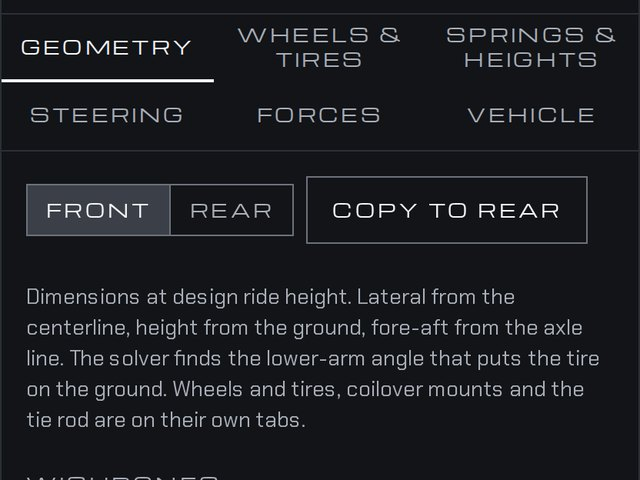
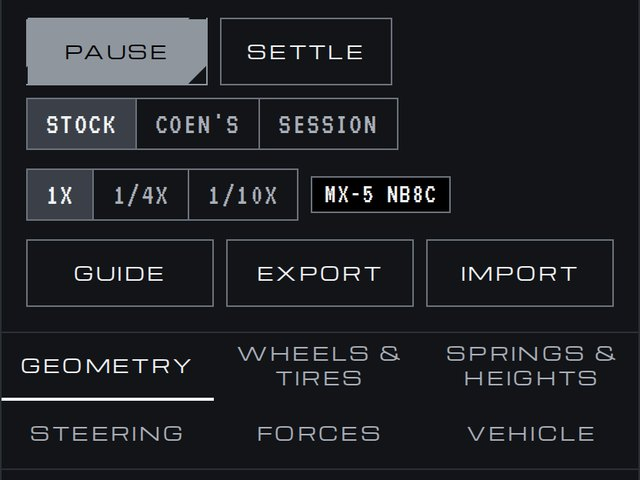
Guide opens on every load; Export and Import setup files; Drive
- The quick start guide opens every time the page loads and from the
  Guide button (was a ? button, shown once). Step 1 names the starter
  setups, the session setup and Export / Import.
- Export saves the setup on screen as a .json file. Import loads such
  a file as the session setup and refuses files that cannot be built.
- The Assess turn-in group is now called Drive.

Claude-Session: https://claude.ai/code/session_01XaYnxNh97FpaRMzgoeqeMp

diff --git a/index.html b/index.html
@@ -4,7 +4,7 @@
 <meta charset="utf-8">
 <meta name="viewport" content="width=device-width, initial-scale=1, viewport-fit=cover">
 <title>Double Wishbone Simulator</title>
-<link rel="stylesheet" href="style.css?v=839bff8e">
+<link rel="stylesheet" href="style.css?v=95f137e8">
 </head>
 <body>
 <div class="app">
@@ -27,7 +27,12 @@
         <button aria-pressed="true" data-v="1">1x</button><button aria-pressed="false" data-v="0.25">1/4x</button><button aria-pressed="false" data-v="0.1">1/10x</button>
       </div>
       <span class="tag">MX-5 NB8C</span>
-      <button class="btn" id="introBtn" title="Quick start" aria-label="Quick start">?</button>
+    </div>
+    <div class="simbar files">
+      <button class="btn" id="introBtn" title="Open the quick start guide">Guide</button>
+      <button class="btn" id="expBtn" title="Save the setup on screen as a file">Export</button>
+      <button class="btn" id="impBtn" title="Load a setup file as the session setup">Import</button>
+      <input type="file" id="impFile" accept=".json,application/json" hidden>
     </div>
   </div>
   <div class="tabs" role="tablist">
@@ -90,7 +95,7 @@
   <div class="pane" id="p-load" role="tabpanel" hidden>
     <fieldset><legend>Body acceleration / steady</legend>
       <div class="sl"><label for="ay">Lateral, + = right turn</label><output id="ayO"></output><input type="range" id="ay" min="-1.5" max="1.5" step="0.01" value="0"></div>
-      <p class="hint" id="ayNote" hidden>Assess turn-in is on (Steering tab), so lateral g comes from the tires.</p>
+      <p class="hint" id="ayNote" hidden>Drive is on (Steering tab), so lateral g comes from the tires.</p>
       <div class="sl"><label for="ax">Longitudinal, + = accelerating</label><output id="axO"></output><input type="range" id="ax" min="-1.5" max="1.2" step="0.01" value="0"></div>
     </fieldset>
     <fieldset><legend>Point load / downward</legend>
@@ -111,7 +116,7 @@
 
   <div class="pane" id="p-veh" role="tabpanel" hidden>
     <div id="vehFields" class="groups"></div>
-    <p class="hint">Sprung mass is everything the springs carry. Unsprung mass is wheel, tire, upright, brake and about half the arms and coilover. Roll inertia is about the CG. The model adds the offset to the roll axis. CG height follows the ride height. Yaw inertia is only used while Assess turn-in is on.</p>
+    <p class="hint">Sprung mass is everything the springs carry. Unsprung mass is wheel, tire, upright, brake and about half the arms and coilover. Roll inertia is about the CG. The model adds the offset to the roll axis. CG height follows the ride height. Yaw inertia is only used while Drive is on.</p>
     <p class="hint">The setup saves in this browser. Stock and Coen's reload that car. Any edit you make is kept as the Session setup; the Session button brings it back.</p>
   </div>
   <div class="status" id="status" role="status">Solved.</div>
@@ -247,7 +252,7 @@
         <li>Dynamics: body heave, pitch and roll (small angles) plus vertical motion of each wheel, and sideways slide and yaw while the car is driven. The body rolls about the roll axis, a tilted body carries its CG off-center over the wheels, and the CG height follows the ride height.</li>
         <li>Tires are thin discs with a linear vertical spring and light damping. They can leave the ground. Side force follows a Magic Formula curve from slip angle, load and camber: peak grip falls as load rises, cornering stiffness flattens with load, and camber leaning into the turn adds a little grip up to an optimum. The grip numbers are typical values, not test data, so trust the direction of a change more than the size.</li>
         <li>Grip in use: the car is settled at each lateral g and each axle's side force is compared with the most its two tires can make at their loads, cambers and toes. The axle that reaches 100 % first sets the limit. The understeer gradient is the change in front minus rear slip angle between 0.2 and 0.4 g.</li>
-        <li>Assess turn-in (Steering tab): at the set steady speed the tires make the side force from their slip angles, the car slides sideways and yaws, and lateral g comes out of that. Speed is held constant, the road is flat, and there is no drive or brake force at the tires. Past the limit the car plows or spins; that part is the least accurate. Cornering loads do not jack the body. While it is on, the floor grid in the 3D view moves under the car: it streams back at the car's speed, turns as the car yaws, and drifts sideways when the car slides. Finer grid lines fade out at speed so the motion stays readable.</li>
+        <li>Drive (Steering tab): at the set steady speed the tires make the side force from their slip angles, the car slides sideways and yaws, and lateral g comes out of that. Speed is held constant, the road is flat, and there is no drive or brake force at the tires. Past the limit the car plows or spins; that part is the least accurate. Cornering loads do not jack the body. While it is on, the floor grid in the 3D view moves under the car: it streams back at the car's speed, turns as the car yaws, and drifts sideways when the car slides. Finer grid lines fade out at speed so the motion stays readable.</li>
         <li>No anti-dive or anti-squat: all longitudinal load transfer goes through the springs.</li>
         <li>Lateral load transfer through the links uses each axle's roll center height for equal travel on both sides and zero steer. The rear view shows the true roll center for reference.</li>
         <li>Steering lifts or lowers each front tire relative to its arm (caster and kingpin inclination), which shifts load diagonally. Springs, bump stops and anti-roll bars act on arm travel.</li>
@@ -266,12 +271,12 @@
     <button class="btn introX" id="introX" aria-label="Close">✕</button>
     <h2 id="introT">Quick start</h2>
     <ol class="introSteps">
-      <li><div><b><i>1</i>Set up the car</b><span>Geometry · Wheels &amp; tires · Springs &amp; heights · Vehicle</span></div>
-        <img src="intro-1.jpg?v=87081ffa" width="640" height="480" alt="The tabs on the left, with the Geometry fields open"></li>
+      <li><div><b><i>1</i>Set up the car</b><span>Starter setups: <em>Stock</em> · <em>Coen's</em>. Edits in the tabs save as <em>Session</em>. <em>Export</em> / <em>Import</em> a setup file.</span></div>
+        <img src="intro-1.jpg?v=759f4f45" width="640" height="480" alt="The Stock, Coen's and Session buttons above the tabs, with the Geometry fields open"></li>
       <li><div><b><i>2</i>Steer and load it</b><span>Steering wheel slider · Forces sliders</span></div>
         <img src="intro-2.jpg?v=19d6150e" width="640" height="480" alt="The 3D view with the front wheels turned and the body leaning"></li>
-      <li><div><b><i>3</i>Test turn-in</b><span>Steering tab: On · speed · Step steer</span></div>
-        <img src="intro-3.jpg?v=62b77571" width="640" height="480" alt="The Assess turn-in group ticked, with the Step steer button"></li>
+      <li><div><b><i>3</i>Test turn-in</b><span>Steering tab: <em>Drive</em> on · speed · Step steer</span></div>
+        <img src="intro-3.jpg?v=ffe933db" width="640" height="480" alt="The Drive group switched on, with the steady speed and the Step steer button"></li>
     </ol>
   </div>
 </div>
@@ -281,6 +286,6 @@
 <script src="OrbitControls.js"></script>
 <script src="body-model.js?v=5b8c0312"></script>
 <script src="core.js?v=7219f528"></script>
-<script src="ui.js?v=31ca509b"></script>
+<script src="ui.js?v=0cd4b159"></script>
 </body>
 </html>

diff --git a/ui.js b/ui.js
@@ -12,11 +12,11 @@ let presetName=null, presetLock=false; try{presetName=localStorage.getItem("dws.
 function save(){try{const t=JSON.stringify(P); localStorage.setItem(KEY,t); if(!presetLock){presetName="session"; localStorage.setItem("dws.preset","session"); localStorage.setItem(SKEY,t);}}catch(e){} markPreset();}   // an edit makes the current setup the session setup
 function markPreset(){const h=document.getElementById("preset"); if(h) h.querySelectorAll("button").forEach(x=>x.setAttribute("aria-pressed",x.dataset.p===presetName));}
 let P=loadSaved(); const restored=!!P; if(!P){P=defaults(); presetName="stock";}
-P.steer.link=0;                                                        // Assess turn-in is a mode, not part of a setup: every load starts with it off (floor still)
+P.steer.link=0;                                                        // Drive is a mode, not part of a setup: every load starts with it off (floor still)
 let model=makeModel(P), S=newState();
 const inp={ay:0,ax:0,Fp:0,xp:1.1,yp:-0.6,rack:0,U:0};      // U > 0: the car is driven and the tires set the lateral g
 let running=true, speed=1, editAxle=0, viewAxle=0, linkMode="pair", swDeg=0, ayManual=0, stepAcc=0;
-/* Where the car is on the ground while it is driven (Assess turn-in): heading psi (+ = turned right) and position, wrapped to the floor grid's
+/* Where the car is on the ground while it is driven (Drive): heading psi (+ = turned right) and position, wrapped to the floor grid's
    coarsest spacing. The 3D view keeps the car still and moves the floor the opposite way. d is the distance covered in the last drawn frame. */
 const GND={psi:0,x:0,y:0,d:0}, GWRAP=4;
 const BODY_LIFT=0.038;      // the Assetto Corsa shell is a lowered car: raise it 38 mm on the wheels so it sits right at stock height (drawing only, no effect on the numbers)
@@ -94,7 +94,7 @@ function renderForms(){
    row.className="rowbtns"; row.innerHTML='<button class="btn" id="fitTie">Least bump steer</button>'; tie.appendChild(row);
    const th=document.createElement("p"); th.className="hint"; th.textContent="The outer joint moves with the upright; the inner joint sits on the rack. The button moves the inner joint to the height with the least toe change over the travel range."; tie.appendChild(th);
    $("fitTie").onclick=fitTie;}
-  buildFields($("linkFields"),[STEER[1]],()=>P.steer,"st","",()=>"Assess turn-in");
+  buildFields($("linkFields"),[STEER[1]],()=>P.steer,"st","",()=>"Drive");
   const lf=$("linkFields").querySelector("fieldset"), chk=document.createElement("label");
   chk.className="chk"; chk.innerHTML='<input type="checkbox" id="link"> On'; lf.insertBefore(chk,lf.children[1]);
   const hint=document.createElement("p"); hint.className="hint";
@@ -139,11 +139,12 @@ $("speed").addEventListener("click",e=>{const b=e.target.closest("button"); if(!
 $("play").onclick=()=>{running=!running; $("play").textContent=running?"Pause":"Run";};
 function resettle(sec){S=newState(); settle(model,S,inp,sec); S.t=0; histClear(); GND.psi=GND.x=GND.y=0;}
 $("reset").onclick=()=>resettle(4);
-function loadPreset(name){
+function loadPreset(name,q0){
   const label=name==="stock"?"Stock":name==="session"?"Session":"Coen's";
   try{
     let q;
-    if(name==="session"){
+    if(q0) q=q0;                                                         // a setup read from a file
+    else if(name==="session"){
       let t=null; try{t=localStorage.getItem(SKEY);}catch(e){}
       if(!t) q=defaults();                                               // no session saved yet: it starts as the start-up car
       else {const j=JSON.parse(t); q=noSp(merge(defaults(),j),j);}
@@ -738,13 +739,48 @@ function frame(now){
   requestAnimationFrame(frame);
 }
 
-/* ---- quick start: shown once on a first visit, and again from the ? button ---- */
-{const box=$("intro"), show=on=>{box.hidden=!on; if(on) $("introX").focus(); else try{localStorage.setItem("dws.intro","1");}catch(e){}};
+/* ---- setup files: Export saves the car on screen as a .json file; Import loads such a file as the session setup ---- */
+async function exportSetup(){
+  const d=new Date(), p2=n=>String(n).padStart(2,"0"), name=presetName==="coen"?"coens":(presetName||"session");
+  const file="dws-"+name+"-"+d.getFullYear()+"-"+p2(d.getMonth()+1)+"-"+p2(d.getDate())+".json";
+  const text=JSON.stringify({app:"double-wishbone-simulator",format:1,name,saved:d.toISOString(),setup:P},null,1);
+  let dl=null; try{if(window.claude&&window.claude.use) dl=await window.claude.use("downloads");}catch(e){}      // inside a Claude artifact the viewer saves the file
+  if(dl){
+    try{await dl.save({filename:file,data:text}); setStatus("Setup exported as "+file+".",false);}
+    catch(e){if(e&&e.code==="declined") setStatus("Export cancelled.",false); else setStatus("Export is not available in this view.",true);}
+    return;
+  }
+  try{
+    const a=document.createElement("a"), u=URL.createObjectURL(new Blob([text],{type:"application/json"}));
+    a.href=u; a.download=file; document.body.appendChild(a); a.click(); a.remove(); setTimeout(()=>URL.revokeObjectURL(u),2000);
+    setStatus("Setup exported as "+file+".",false);
+  }catch(e){setStatus("Export failed: "+e.message,true);}
+}
+function importSetup(f){
+  const rd=new FileReader();
+  rd.onerror=()=>setStatus("Import failed: the file could not be read.",true);
+  rd.onload=()=>{
+    try{
+      let j; try{j=JSON.parse(rd.result);}catch(e){throw new Error("the file is not a setup file.");}
+      const src=j&&j.setup?j.setup:j;
+      if(!src||typeof src!=="object"||!Array.isArray(src.ax)||!src.veh) throw new Error("the file is not a setup file.");
+      const q=noSp(merge(defaults(),src),src); makeModel(q);                // throws if the geometry in the file cannot be built
+      try{localStorage.setItem(SKEY,JSON.stringify(q));}catch(e){}
+      loadPreset("session",q); setStatus("Setup imported from "+f.name+". It is now the session setup.",false);
+    }catch(e){setStatus("Import failed: "+e.message,true);}
+  };
+  rd.readAsText(f);
+}
+$("expBtn").onclick=exportSetup;
+$("impBtn").onclick=()=>$("impFile").click();
+$("impFile").onchange=()=>{const f=$("impFile").files[0]; $("impFile").value=""; if(f) importSetup(f);};
+
+/* ---- quick start: opens every time the page loads, and again from the Guide button ---- */
+{const box=$("intro"), show=on=>{box.hidden=!on; if(on) $("introX").focus();};
  $("introX").onclick=()=>show(false); $("introBtn").onclick=()=>show(true);
  box.addEventListener("click",e=>{if(e.target===box) show(false);});
  document.addEventListener("keydown",e=>{if(e.key==="Escape"&&!box.hidden) show(false);});
- let seen=false; try{seen=!!localStorage.getItem("dws.intro");}catch(e){}
- if(!seen) show(true);}
+ show(true);}
 
 /* boot */
 settle(model,S,inp,3); S.t=0;

diff --git a/style.css b/style.css
@@ -58,6 +58,7 @@ aside{background:var(--glass);border:1px solid var(--hairline);display:flex;flex
 h1{margin:0;font:400 28px/1.15 var(--font-display);letter-spacing:.04em;text-transform:uppercase;text-shadow:var(--chroma-bleed-sm)}
 .osdline{margin:0;color:var(--vinyl-dim);font:400 20px/20px var(--font-osd);letter-spacing:.06em;text-transform:uppercase}
 .simbar{display:flex;flex-wrap:wrap;gap:var(--space-2);align-items:center}
+.simbar.files .btn{flex:1 1 0;min-width:0;padding:0 var(--space-2)}
 
 /* ---- buttons: outline by default, one primary with the cut corner, ghost for the way out ---- */
 .btn{display:inline-flex;align-items:center;justify-content:center;min-height:44px;padding:0 var(--space-4);border:1px solid var(--edge);border-radius:0;background:none;color:var(--vinyl);
@@ -212,7 +213,8 @@ details ul,.card ul{margin:var(--space-3) 0 0;padding-left:18px;display:grid;gap
 .introSteps div{display:grid;gap:var(--space-1);align-content:start}
 .introSteps b{display:flex;align-items:center;gap:var(--space-2);font:400 13px/18px var(--font-display);letter-spacing:.1em;text-transform:uppercase}
 .introSteps i{flex:none;display:grid;place-items:center;width:24px;height:24px;border:1px solid var(--vinyl);font:400 20px/1 var(--font-osd);font-style:normal}
-.introSteps span{color:var(--vinyl-dim);min-height:40px}
+.introSteps span{color:var(--vinyl-dim);min-height:60px}
+.introSteps em{font-style:normal;color:var(--vinyl)}
 .introSteps img{display:block;width:100%;height:auto;border:1px solid var(--edge)}
 @media (max-width:760px){
   .introBox{padding:var(--space-4)}

diff --git a/README.md b/README.md
@@ -42,7 +42,7 @@ Open `index.html` in a browser. Everything it needs is in this folder, so it wor
 
 ## The two cars: where each number comes from
 
-Both are a Mazda MX-5 NB 1.8 (NB8C). The **Stock** button loads the car as Mazda built it. The **Coen's** button loads the same arms, pivots and rack with these changes: 8 / 6 kgf/mm springs, 15×7 ET35 wheels with 30 mm (front) and 12 mm (rear) spacers, 185/45R15 tires at 240 kPa (loaded radius 260 mm, 235 N/mm, as entered), alignment at ride height of front camber −4.67°, caster 3°, toe −0.5° and rear camber −3.17°, toe 0° (the Geometry fields read front −4.00° and −0.97°, rear −1.94°, because they are set at stock height and lowering adds the rest, as after a realignment), rack inner joint 207.0 mm (6.8 mm above stock), travel limits as stock, ride height −26 mm front and −38 mm rear from stock height. Stock has 16 in rims (15 in on Coen's), so wheel sizes can be compared; the rim diameter only changes the drawing and the tire-size estimate, and stock loaded radius stays 274 mm so the numbers match Mazda's. Coen's dampers are the stock slopes × 1.66 front and × 1.69 rear, which is a guess (the real ones are stiffer by an unknown amount). Any edit lights the **Session** button instead: your edits are kept in this browser as the session setup, and Session loads them back after you try Stock or Coen's. Until you edit something, Session is the stock car. A new visitor starts on the stock car with the floor still and the plain box shown. A one-window quick start opens once in each browser (the ? button brings it back). The Steering tab has a **Cut knuckles** switch: it shortens the front steering arm by the amount entered (20 mm is a placeholder) and re-sets the tie rod so static toe holds; it is off in both cars.
+Both are a Mazda MX-5 NB 1.8 (NB8C). The **Stock** button loads the car as Mazda built it. The **Coen's** button loads the same arms, pivots and rack with these changes: 8 / 6 kgf/mm springs, 15×7 ET35 wheels with 30 mm (front) and 12 mm (rear) spacers, 185/45R15 tires at 240 kPa (loaded radius 260 mm, 235 N/mm, as entered), alignment at ride height of front camber −4.67°, caster 3°, toe −0.5° and rear camber −3.17°, toe 0° (the Geometry fields read front −4.00° and −0.97°, rear −1.94°, because they are set at stock height and lowering adds the rest, as after a realignment), rack inner joint 207.0 mm (6.8 mm above stock), travel limits as stock, ride height −26 mm front and −38 mm rear from stock height. Stock has 16 in rims (15 in on Coen's), so wheel sizes can be compared; the rim diameter only changes the drawing and the tire-size estimate, and stock loaded radius stays 274 mm so the numbers match Mazda's. Coen's dampers are the stock slopes × 1.66 front and × 1.69 rear, which is a guess (the real ones are stiffer by an unknown amount). Any edit lights the **Session** button instead: your edits are kept in this browser as the session setup, and Session loads them back after you try Stock or Coen's. Until you edit something, Session is the stock car. A new visitor starts on the stock car with the floor still and the plain box shown. A one-window quick start guide opens every time the page loads; close it with the ✕, Esc or a click outside, and reopen it with the **Guide** button. **Export** saves the setup on screen as a `.json` file (named `dws-<car>-<date>.json`); **Import** loads such a file as the session setup, replacing the session setup kept in the browser. A file whose geometry cannot be built is refused and nothing changes. The Steering tab has a **Cut knuckles** switch: it shortens the front steering arm by the amount entered (20 mm is a placeholder) and re-sets the tie rod so static toe holds; it is off in both cars.
 
 | Basis | Numbers |
 |---|---|
@@ -73,7 +73,7 @@ The Miata has no rear toe link. Its rear lower arm holds the upright at two oute
 | Geometry | Arms, chassis pivots, upright, alignment, per axle |
 | Wheels & tires | Wheel, tire size and rate, tire grip, per axle |
 | Springs & heights | Springs, dampers, anti-roll bar, coilover mount, travel limits, ride height |
-| Steering | Steering wheel, Assess turn-in with steady speed and step steer, rack, cut knuckles, tie rod |
+| Steering | Steering wheel, Drive with steady speed and step steer, rack, cut knuckles, tie rod |
 | Forces | Lateral and longitudinal g, a point load, road bumps |
 | Vehicle | Mass, inertias, wheelbase, CG |
 
@@ -89,8 +89,8 @@ The Miata has no rear toe link. Its rear lower arm holds the upright at two oute
 - **Telemetry** shows each tire's slip angle and the share of its grip in use.
 - **Setup sheet** shows the cornering limit of the front and rear tires, which end runs out first, and the understeer gradient.
 - **Curve → Grip in use** plots both axles against lateral g. The line that reaches 100 % first sets the limit.
-- **Steering → Assess turn-in** runs the car at the steady speed: the tires make the side force, the car slides and yaws, and lateral g comes out of that. With it off you set lateral g on the Forces tab. It is a mode, not part of a setup: it is off every time the page opens or a car is loaded, and switching it does not change which car button is lit. **Step steer** (only while it is on) centers the wheel, then turns it to the angle entered; the History panel shows lateral g, yaw rate and roll building up.
-- While Assess turn-in is on, the floor grid in the 3D view moves under the car: it streams back at the car's speed, turns as the car yaws and drifts sideways when the car slides. `GND` in `ui.js` holds the car's heading and position.
+- **Steering → Drive** runs the car at the steady speed: the tires make the side force, the car slides and yaws, and lateral g comes out of that. With it off you set lateral g on the Forces tab. It is a mode, not part of a setup: it is off every time the page opens or a car is loaded, and switching it does not change which car button is lit. **Step steer** (only while it is on) centers the wheel, then turns it to the angle entered; the History panel shows lateral g, yaw rate and roll building up.
+- While Drive is on, the floor grid in the 3D view moves under the car: it streams back at the car's speed, turns as the car yaws and drifts sideways when the car slides. `GND` in `ui.js` holds the car's heading and position.
 - Speed is constant, the road is flat, and no drive or brake force acts at the tires. If the car slides sideways faster than it moves forward it has spun, and the page centers the steering.
 
 ## Good to know
